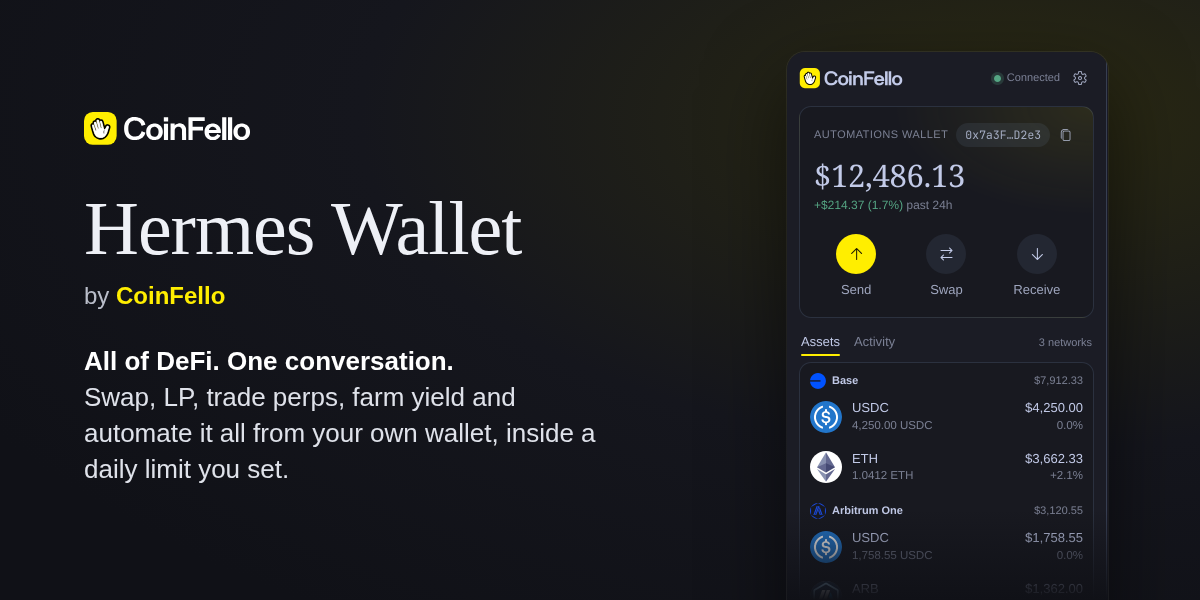
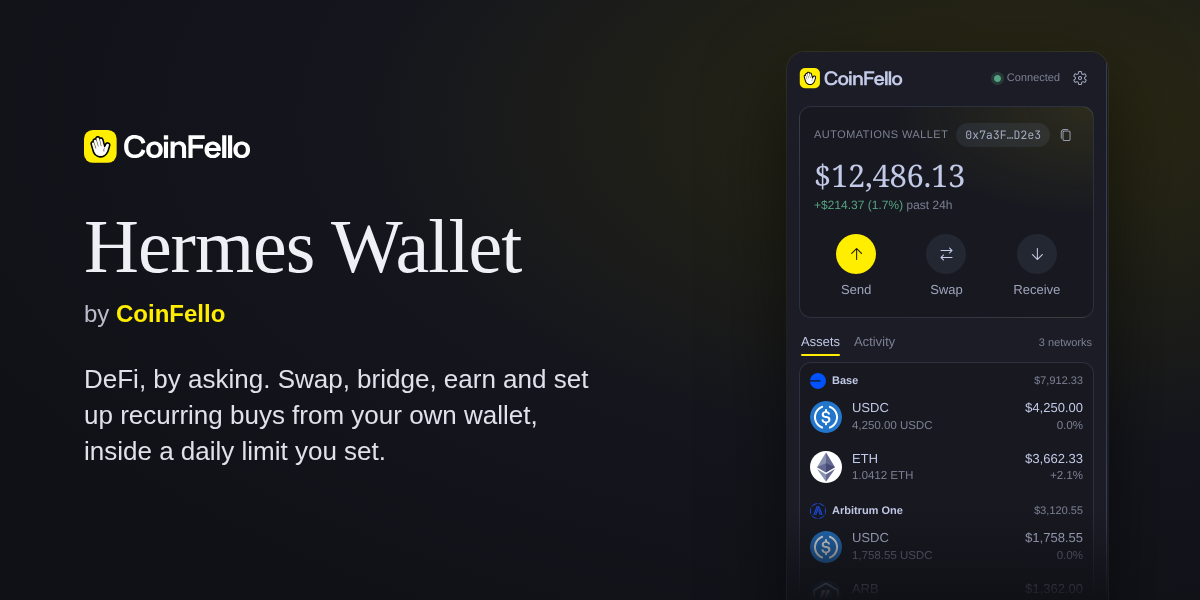
Catalog polish on top of Hermes OAuth sign-in
- Display name: Hermes Wallet by CoinFello (install name stays coinfello)
- plugin.yaml description rewritten for the OAuth sign-in; version quoted
- README: daily spending limit in Security notes; fello_chat plans only on
  current servers (coinfello-web#1176); 20 tools, OAuth connect row and
  sign-in bullet; https clone and catalog install; Ctrl+K / Cmd+K; no em
  dashes; no aggregator names
- Banner and demo-data screenshots in docs/, shown in the README
- Tool descriptions no longer name the aggregator
- Test fixtures use satoshi@example.com instead of a real address

Changed region(s): [[0.0617, 0.57, 0.4933, 0.81], [0.0617, 0.33, 0.4317, 0.54], [0.0617, 0.18, 0.2158, 0.27]]

diff --git a/coinfello_tools.py b/coinfello_tools.py
@@ -372,7 +372,7 @@ _COINFELLO_TOOLS: tuple[tuple[str, dict, Handler], ...] = (
         _schema(
             "coinfello_quote",
             "Quote a swap (same chain) or bridge (different chains) from the "
-            "CoinFello automation wallet through LI.FI, for comparing options. "
+            "CoinFello automation wallet, for comparing options. "
             "EXECUTES NOTHING and cannot be executed by reference: to trade, use "
             "coinfello_prepare_swap with the same arguments.",
             {
@@ -392,7 +392,7 @@ _COINFELLO_TOOLS: tuple[tuple[str, dict, Handler], ...] = (
         _schema(
             "coinfello_prepare_swap",
             "Step 1 of a swap (same chain) or bridge (different chains) from the "
-            "CoinFello automation wallet: quotes it through LI.FI and stores it as "
+            "CoinFello automation wallet: quotes it and stores it as "
             "a single-use intent valid for about two minutes. EXECUTES NOTHING. "
             "Returns intent_id, the summary (amount in, minimum out, bridge, gas "
             "and fees) and a one-line description. Refused up front when the "
@@ -460,7 +460,7 @@ _COINFELLO_TOOLS: tuple[tuple[str, dict, Handler], ...] = (
         _schema(
             "coinfello_transfer_status",
             "What a swap or bridge actually delivered, by its source transaction "
-            "hash (LI.FI status). outcome is pending, completed, wrong_token (it "
+            "hash. outcome is pending, completed, wrong_token (it "
             "finished but a different token arrived, e.g. WETH instead of POL), "
             "refunded (nothing arrived; the source token came back) or failed. "
             "Use this after every bridge instead of polling balances, which cannot "

diff --git a/tests/test_mcp_client.py b/tests/test_mcp_client.py
@@ -146,7 +146,7 @@ def test_requests_name_the_plugin_and_its_manifest_version(mock_mcp):
     import coinfello_mcp
 
     manifest = (Path(__file__).resolve().parents[1] / "plugin.yaml").read_text()
-    version = re.search(r"^version:\s*(\S+)", manifest, re.M).group(1)
+    version = re.search(r"^version:\s*(\S+)", manifest, re.M).group(1).strip("\"'")
     assert coinfello_mcp.CLIENT_INFO["version"] == version
     assert coinfello_mcp.USER_AGENT.startswith(f"coinfello-hermes-plugin/{version} ")
 

diff --git a/coinfello_mcp.py b/coinfello_mcp.py
@@ -24,7 +24,7 @@ import urllib.request
 from typing import Callable, Mapping
 
 PROTOCOL_VERSION = "2025-06-18"
-CLIENT_INFO = {"name": "coinfello-hermes-plugin", "version": "0.3.3"}
+CLIENT_INFO = {"name": "coinfello-hermes-plugin", "version": "0.3.4"}
 # Every request names the client the standard way. CoinFello's server reads it
 # for its own daily-activity analytics (the server is stateless, so it cannot
 # read clientInfo from initialize on later calls). Nothing else is sent for

diff --git a/README.md b/README.md
@@ -1,4 +1,6 @@
-# CoinFello for Hermes Agent
+# Hermes Wallet by CoinFello
+
+![Hermes Wallet by CoinFello](docs/banner.png)
 
 A Hermes Agent plugin that connects the agent to [CoinFello](https://coinfello.com)
 through the CoinFello MCP server: sign in once, and the agent gets fast reads
@@ -17,14 +19,12 @@ automations, yields, ...) when the agent shows one.
 
 ## What you get
 
-**22 agent tools** (toolset `coinfello`):
+**20 agent tools** (toolset `coinfello`):
 
 | Tool | What it does |
 |---|---|
 | `coinfello_status` | Connection state, wallet (funding) address, expiry |
-| `coinfello_connect` | Start sign-in: browser approval link + code (email code on older servers) |
-| `coinfello_poll_approval` | Finish sign-in once the human approved in the browser |
-| `coinfello_verify` | Email-code sign-in, only for servers without browser sign-in |
+| `coinfello_connect` | Tells you the one command to sign in (`hermes auth add coinfello:coinfello`); the agent cannot run it |
 | `coinfello_disconnect` | Revoke the session now |
 | `coinfello_chat` | Ask Fello to do something; it stages fund-moving actions for `coinfello_execute` (each message needs your approval) |
 | `coinfello_job_status` | Poll a running Fello turn (its reply lists staged actions too) |
@@ -39,18 +39,36 @@ automations, yields, ...) when the agent shows one.
 
 **Desktop pane** (desktop half of the same package):
 
-- **Sign in with CoinFello**: opens one approval page in your browser and
-  shows the code to match. Already signed in to CoinFello there? One click.
+![Wallet pane: portfolio by network](docs/pane-home.png)
+![Activity: every transaction, failed ones included](docs/pane-activity.png)
+![Settings: the agent's daily spending limit](docs/pane-settings.png)
+
+Screenshots use demo data.
+
+- **Sign in**: shows the `hermes auth add coinfello:coinfello` command with a
+  copy button, and picks the sign-in up on its own once you have approved it
+  in your browser.
 - **Automations wallet**: address with copy button and a scannable QR to
   fund it (same address on every EVM network).
 - **Portfolio**: total value with its 24h move, balances grouped per network
   with token logos, using the same rules as the web Portfolio view
   (`coinfello_portfolio.py` names the web function each rule is ported from).
-- **Portfolio / Strategies** buttons open the full views in CoinFello.
+- **Full portfolio** and **Strategies** open CoinFello's own views in Hermes
+  tabs; **Activity** lists every transaction, failed ones included.
+- **Settings**: the agent's daily spending limit, your account and sign-out,
+  and appearance.
 - **Cards** the agent shows appear at the top of the pane (see below).
 - Statusbar connection chip.
 
 ## Install
+
+From the Hermes plugin catalog (once the listing is merged):
+
+```bash
+hermes plugins install coinfello
+```
+
+From source:
 
 ```bash
 git clone https://github.com/CoinFello/hermes-wallet.git
@@ -59,9 +77,10 @@ cd hermes-wallet
 hermes plugins enable coinfello    # admits it AND installs its Python deps (segno)
 ```
 
-Restart Hermes. The MCP tools appear as `coinfello_*`; the desktop pane
-appears after **Reload desktop plugins** (⌘K) — the desktop half is opt-in
-and inventories under Capabilities → Plugins.
+Restart Hermes. The agent tools appear as `coinfello_*`. The desktop pane
+appears after **Reload desktop plugins** in the command palette (Ctrl+K, or
+Cmd+K on macOS); the desktop half is opt-in and is listed under
+Capabilities → Plugins.
 
 ### Sign in
 
@@ -139,7 +158,7 @@ off the Automation Wallet in the CoinFello app ends it too.
    approved minimum (`price_moved`) or a different bridge than the approved
    one (`route_changed`) is refused before anything is broadcast.
 4. A bridge's success only confirms the source chain. `coinfello_transfer_status`
-   reads LI.FI's status and says what arrived: `wrong_token` (e.g. Across
+   reads the bridge's delivery status and says what arrived: `wrong_token` (e.g. Across
    delivering WETH instead of native POL) and `refunded` are failures to
    report, not to repair with another trade.
 
@@ -178,7 +197,8 @@ the prompt for these tools too, and non-interactive runs (cron, `-q`) are
 refused unless you configured them to auto-approve.
 
 Servers without `prepare_swap` (older CoinFello servers) cannot
-prepare trades; `coinfello_transfer_status` then reads LI.FI directly.
+prepare trades; `coinfello_transfer_status` then reads the bridge status
+directly.
 
 ## Cards (MCP Apps)
 
@@ -297,9 +317,15 @@ window but the host's own frame are ignored; heights are clamped to
 - Stored by the plugin: non-secret state in Hermes's plugin store
   (`plugin-data/coinfello/state.json`): whether the last request was signed
   in, the wallet address, the access level and a pending limit change.
-- `coinfello_chat` executes on-chain actions **without further
-  confirmation** on the CoinFello side, so Hermes asks you to approve each
-  message. CoinFello enforces the daily limit you approved server-side.
+- **Daily spending limit**: a grant that can trade has one, and CoinFello's
+  server enforces it on every trade, whatever the agent was told. Grants can
+  also be read-only. The plugin and the agent can only lower the limit; a
+  raise returns a link you approve in your browser, and you stay signed in.
+- `coinfello_chat` asks Fello to read and plan. On current CoinFello servers
+  (coinfello-web#1176 and later) a Fello turn over MCP cannot move funds: it
+  tells the agent which trade to prepare, and the trade then goes through
+  `prepare_*` and `coinfello_execute`. Hermes still asks you to approve each
+  message, as a second guard for older servers where Fello could act.
 - Unattended runs (cron, the messaging gateway): sign-in never waits on a
   person; without a grant every tool fails at once with the sign-in command.
   `coinfello_execute` and `coinfello_chat` need Hermes's approval prompt.
@@ -326,8 +352,8 @@ version. That is how CoinFello counts daily and monthly active users and
 installs. Signing out ends the grant; the plugin keeps no other identifier.
 
 Other network calls: token and network icons from MetaMask's icon service
-(`static.cx.metamask.io`) and CoinFello's site, LI.FI's status API for older
-servers' bridge status, and block explorers you choose to open. CoinFello's
+(`static.cx.metamask.io`) and CoinFello's site, and block explorers you
+choose to open. CoinFello's
 cards (see Cards) load their fonts from Google Fonts (`fonts.googleapis.com`,
 `fonts.gstatic.com`), the only outside hosts a card's CSP allows, so Google
 sees your IP address and the font request when a card is drawn; cards have no
@@ -342,15 +368,15 @@ node --test tests/amount.test.mjs        # the pane's amount normalizer (likewis
 node --test tests/embed_host.test.mjs    # the pane's swap/Earn/portfolio embed host (likewise)
 ```
 
-The test suite runs a local mock of the MCP streamable-HTTP transport — no
-network or real credentials involved.
+The test suite runs a local mock of the MCP streamable-HTTP transport, with
+no network or real credentials involved.
 
 ### Layout
 
 ```
 ├── plugin.yaml            agent-plugin manifest (provides_tools)
 ├── pyproject.toml         Python deps (segno), installed by Hermes plugin admission
-├── __init__.py            register(ctx) — registers the agent tools
+├── __init__.py            register(ctx): registers the agent tools and the approval hook
 ├── coinfello_mcp.py       stdlib MCP streamable-HTTP client
 ├── coinfello_state.py     endpoint + non-secret pane state (no credentials)
 ├── coinfello_core.py      service layer (sign-in steps, reads, status)
@@ -370,10 +396,6 @@ network or real credentials involved.
   overflows is scaled down. Opening a card in the main workspace
   (`host.openWorkspace`) would give it full width.
 
-- **Embedded portfolio + strategies**: `/embed/*` routes in coinfello-web
-  (same components as the real pages, short-lived scoped token) hosted in a
-  Hermes full-page view, so web releases reach Hermes with no plugin change.
-  Until then the pane's buttons open CoinFello in the browser.
 - **Tier 2**: MetaMask mobile via WalletConnect (QR pairing; transactions
   approved on-device).
 - **Tier 3**: MetaMask browser extension embedded in the Hermes desktop app
